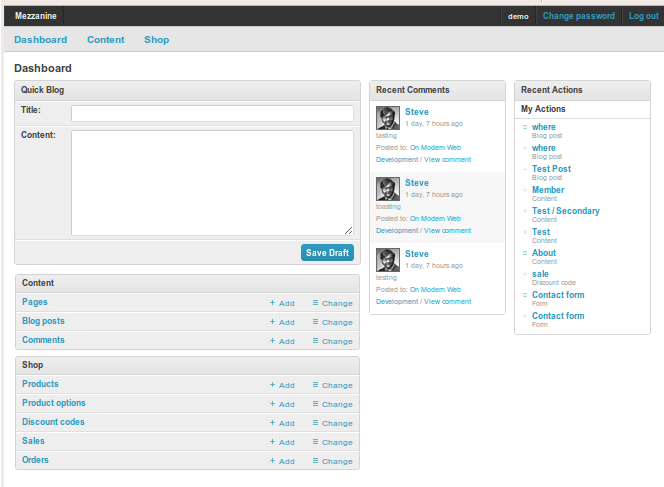
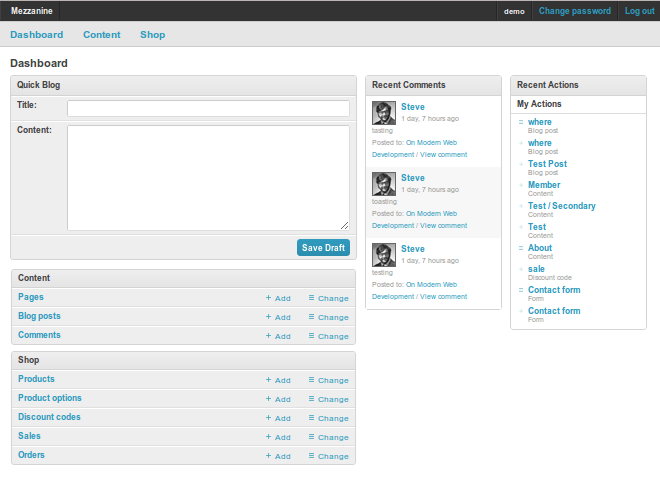
Add configurable dashboard to feature list in README.

Changed region(s): [[0.0, 0.0, 1.0, 0.9647]]

diff --git a/README.rst b/README.rst
@@ -30,6 +30,7 @@ provides the following features.
   * API for `custom content types`_
   * SEO friendly URLs and meta data
   * `Search engine and API`_
+  * Configurable `dashboard`_ widgets
   * Mobile device detection and templates
   * Shopping cart module (`Cartridge`_)
   * Blogging engine
@@ -48,7 +49,7 @@ provides the following features.
 
 The Mezzanine admin dashboard:
 
-.. image:: http://media.tumblr.com/tumblr_l3su7jFBHM1qa0qji.png
+.. image:: http://github.com/stephenmcd/mezzanine/raw/master/docs/img/dashboard.png
 
 Dependencies
 ============
@@ -137,6 +138,7 @@ Quotes
 .. _`In-line page editing`: http://mezzanine.jupo.org/docs/inline-editing.html
 .. _`custom content types`: http://mezzanine.jupo.org/docs/content-architecture.html#creating-custom-content-types
 .. _`Search engine and API`: http://mezzanine.jupo.org/docs/search-engine.html
+.. _`dashboard`: http://mezzanine.jupo.org/docs/admin-customization.html#dashboard
 .. _`Cartridge`: http://cartridge.jupo.org/
 .. _`Custom templates`: http://mezzanine.jupo.org/docs/content-architecture.html#page-templates
 .. _`test suite`: http://mezzanine.jupo.org/docs/packages.html#module-mezzanine.tests
